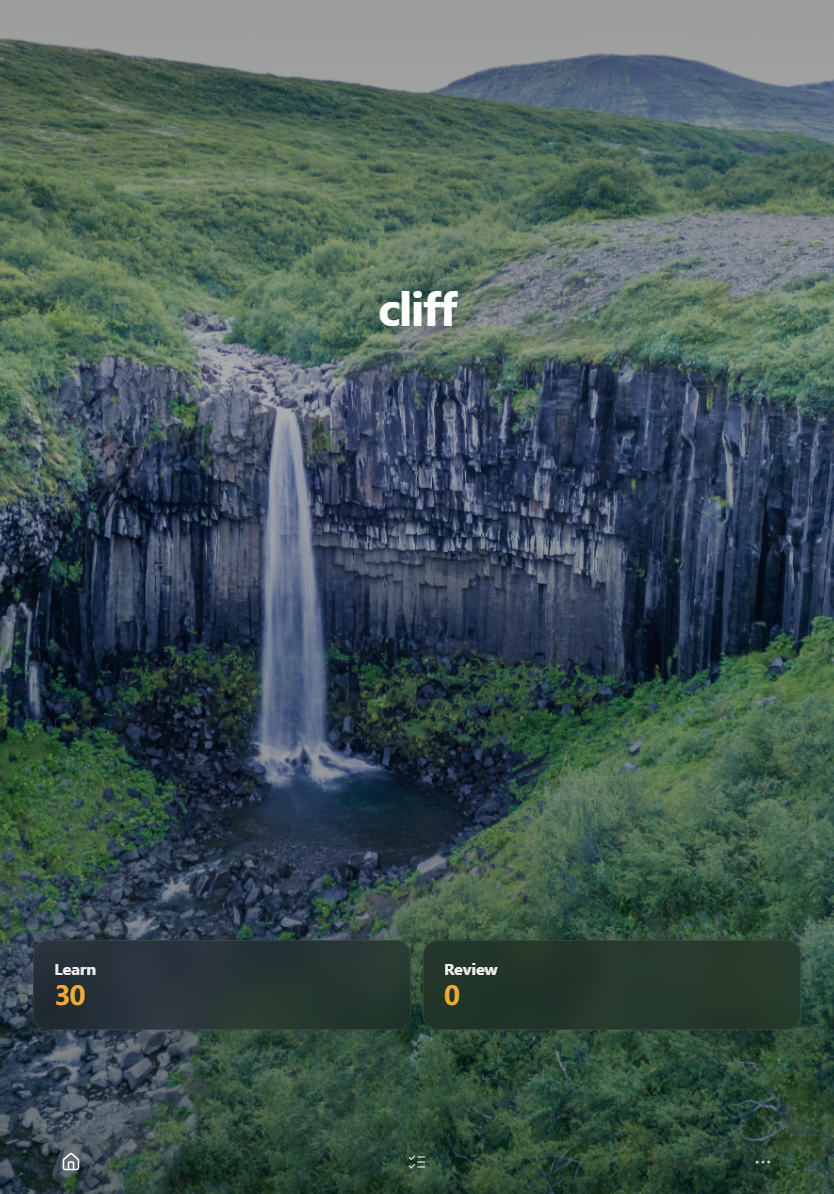
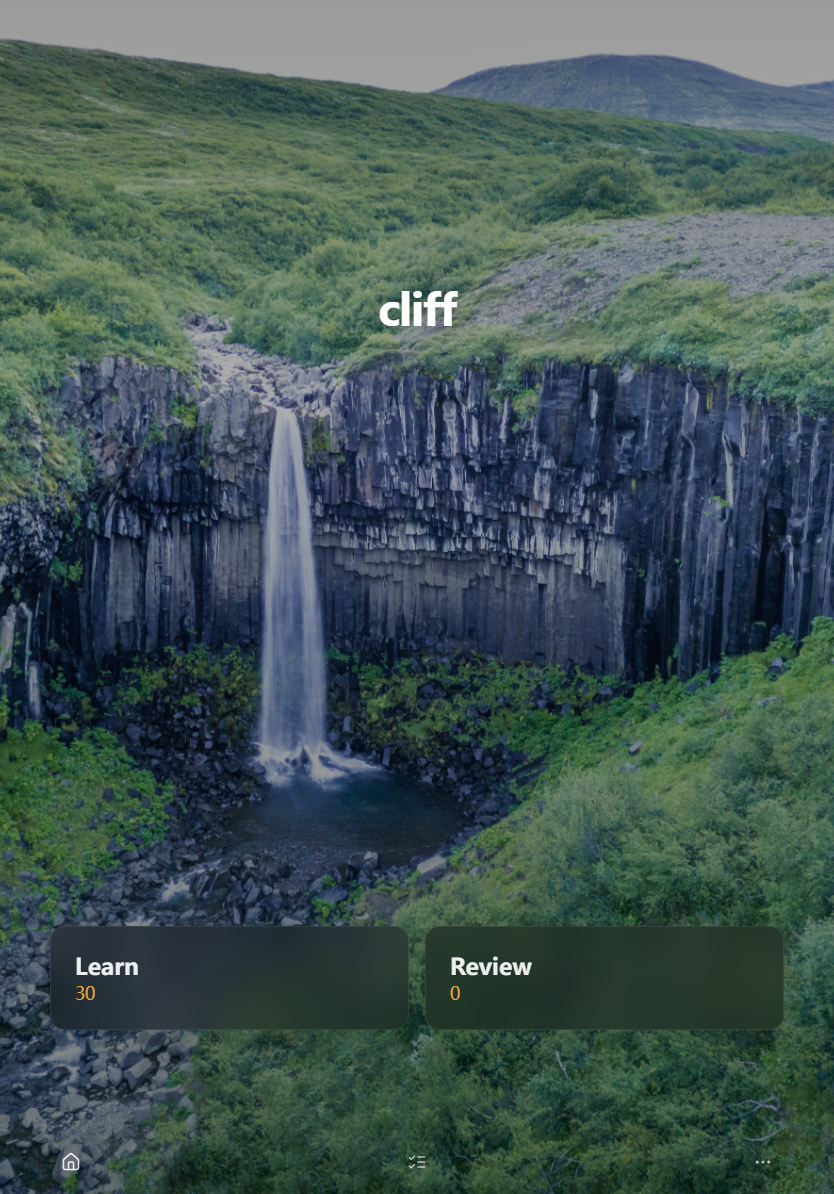
refine: finalize BBDCD v1.2 visual tuning

Changed region(s): [[0.0312, 0.7747, 0.6547, 0.8677], [0.6859, 0.7747, 0.9664, 0.8677]]

diff --git a/src/styles/bbdcd-home.css b/src/styles/bbdcd-home.css
@@ -91,8 +91,8 @@
 .immersive-home__actions {
   display: grid;
   grid-template-columns: repeat(2, minmax(0, 1fr));
-  gap: 12px;
-  width: min(880px, 100%);
+  gap: clamp(16px, 1.4vw, 28px);
+  width: min(88vw, 1680px);
   margin: 0 auto;
 }
 
@@ -100,8 +100,8 @@
   display: grid;
   align-content: center;
   justify-items: start;
-  min-height: 90px;
-  padding: 16px 20px;
+  min-height: 104px;
+  padding: 18px 24px;
   border: 1px solid rgba(255, 255, 255, .075);
   border-radius: 15px;
   background: rgba(20, 24, 22, .48);
@@ -124,7 +124,7 @@
 
 .immersive-home__task-label {
   color: rgba(255, 255, 255, .92);
-  font-size: 15px;
+  font-size: clamp(23px, 1.5vw, 28px);
   font-weight: 650;
   line-height: 1.2;
 }
@@ -132,8 +132,8 @@
 .immersive-home__task-value {
   margin-top: 4px;
   color: #f0aa38;
-  font-size: 26px;
-  font-weight: 700;
+  font-size: clamp(18px, 1.15vw, 22px);
+  font-weight: 500;
   letter-spacing: -.035em;
   line-height: 1;
 }
@@ -162,14 +162,19 @@
   place-items: center;
   width: 32px;
   height: 32px;
-  color: rgba(255, 255, 255, .72);
+  color: rgba(255, 255, 255, .68);
   transition: color .18s ease, opacity .18s ease;
 }
 
-.immersive-home__nav-item:hover,
+.immersive-home__nav-item:hover {
+  background: transparent;
+  color: rgba(255, 255, 255, .78);
+  opacity: 1;
+}
+
 .immersive-home__nav-item.is-active {
   background: transparent;
-  color: #fff;
+  color: rgba(255, 255, 255, .9);
   opacity: 1;
 }
 
@@ -236,12 +241,12 @@
   }
 
   .immersive-home__task-label {
-    font-size: 13px;
+    font-size: clamp(17px, 4.2vw, 20px);
   }
 
   .immersive-home__task-value {
     margin-top: 3px;
-    font-size: 23px;
+    font-size: clamp(15px, 3.5vw, 17px);
   }
 
   .immersive-home__bottom-nav {

diff --git a/FINAL_BBDCD_V1_2_REPORT.md b/FINAL_BBDCD_V1_2_REPORT.md
@@ -29,6 +29,15 @@
 - Re-screened the local candidate pool to 14 scenes. Removed `stars-01`, `waterfall-01`, `waterfall-04`, `sheep-01`, `daisy-01`, and `lighthouse-01` for forest density, tourist/ordinary wallpaper feel, visual clutter, or weak subject framing; original source files remain retained for traceability.
 - Tightened semantic featured-word matching for `beacon`, `waddle`, `eruption`, `daisy`, and `cascade`; no FSRS, IndexedDB, Today Flow, Study, Review, Dictation, or PWA business behavior was changed.
 
+### Visual Refinement Round 3
+
+- Widened the two-card action region from the R2 `880px` cap to `min(88vw, 1680px)`. At 1920×1080 the measured width is 1680px (87.5%), with 120px outer margins and a 28px inter-card gap; iPad and iPhone remain two-column without horizontal overflow.
+- Increased desktop card height to 104px with restrained padding, preserving the low-reflection dark translucent material and the minimal title + number structure.
+- Reversed the typography hierarchy to **title > number**: desktop Learn/Review render at 28px/650 weight while the warm-orange number renders at 22px/500 weight; mobile uses 17–18px titles over 15px numbers.
+- Weakened the bottom navigation one step only: three independent icons remain in place, with inactive white at 0.68 alpha and active white at 0.90 alpha; no container, background, scale, shadow, or labels were added.
+- Featured Word and the 14-scene runtime background pool were frozen; no background, route, business, PWA, or architecture changes were made in R3.
+- Stop Conditions reached after the final screenshot and gate pass. No Round 4 exploration was started.
+
 ### Local background pool
 
 - 14 selected scenes from the handoff candidate pool after Round 2 visual review.
@@ -84,6 +93,12 @@ Required screenshots are in `audit/bbdcd-v1.2/` (desktop captures are 1920×1080
 - R2 screenshots regenerated after the final build: 10 files, 0 console errors, 0 page errors.
 - Browser DOM/layout review confirmed zero legacy home elements, no horizontal/vertical overflow at required sizes, and a transparent borderless bottom navigation.
 - Current state remains **OPEN / NOT MERGED / NO `v1.2.0` TAG / WAITING FOR FINAL VISUAL REVIEW**.
+
+## Visual Refinement Round 3 acceptance state
+
+- Final R3 captures regenerated after the final build: 10 files covering five 1920×1080 desktop scenes, iPhone 390/430, iPad, Background Off, and Study regression; capture reported 0 console errors and 0 page errors.
+- Browser measurements confirmed the 1920×1080 card region at 87.5% viewport width, 104px card height, title size greater than number size, three weak independent nav icons, and zero horizontal/vertical overflow at 1920×1080, 834×1112, 430×932, and 390×844.
+- All R3 Stop Conditions are met. The branch is now frozen for owner review: **OPEN / NOT MERGED / NO `v1.2.0` TAG / NO DEPLOYMENT / WAITING FOR FINAL VISUAL ACCEPTANCE**.
 
 ## Explicit handoff boundary
 
